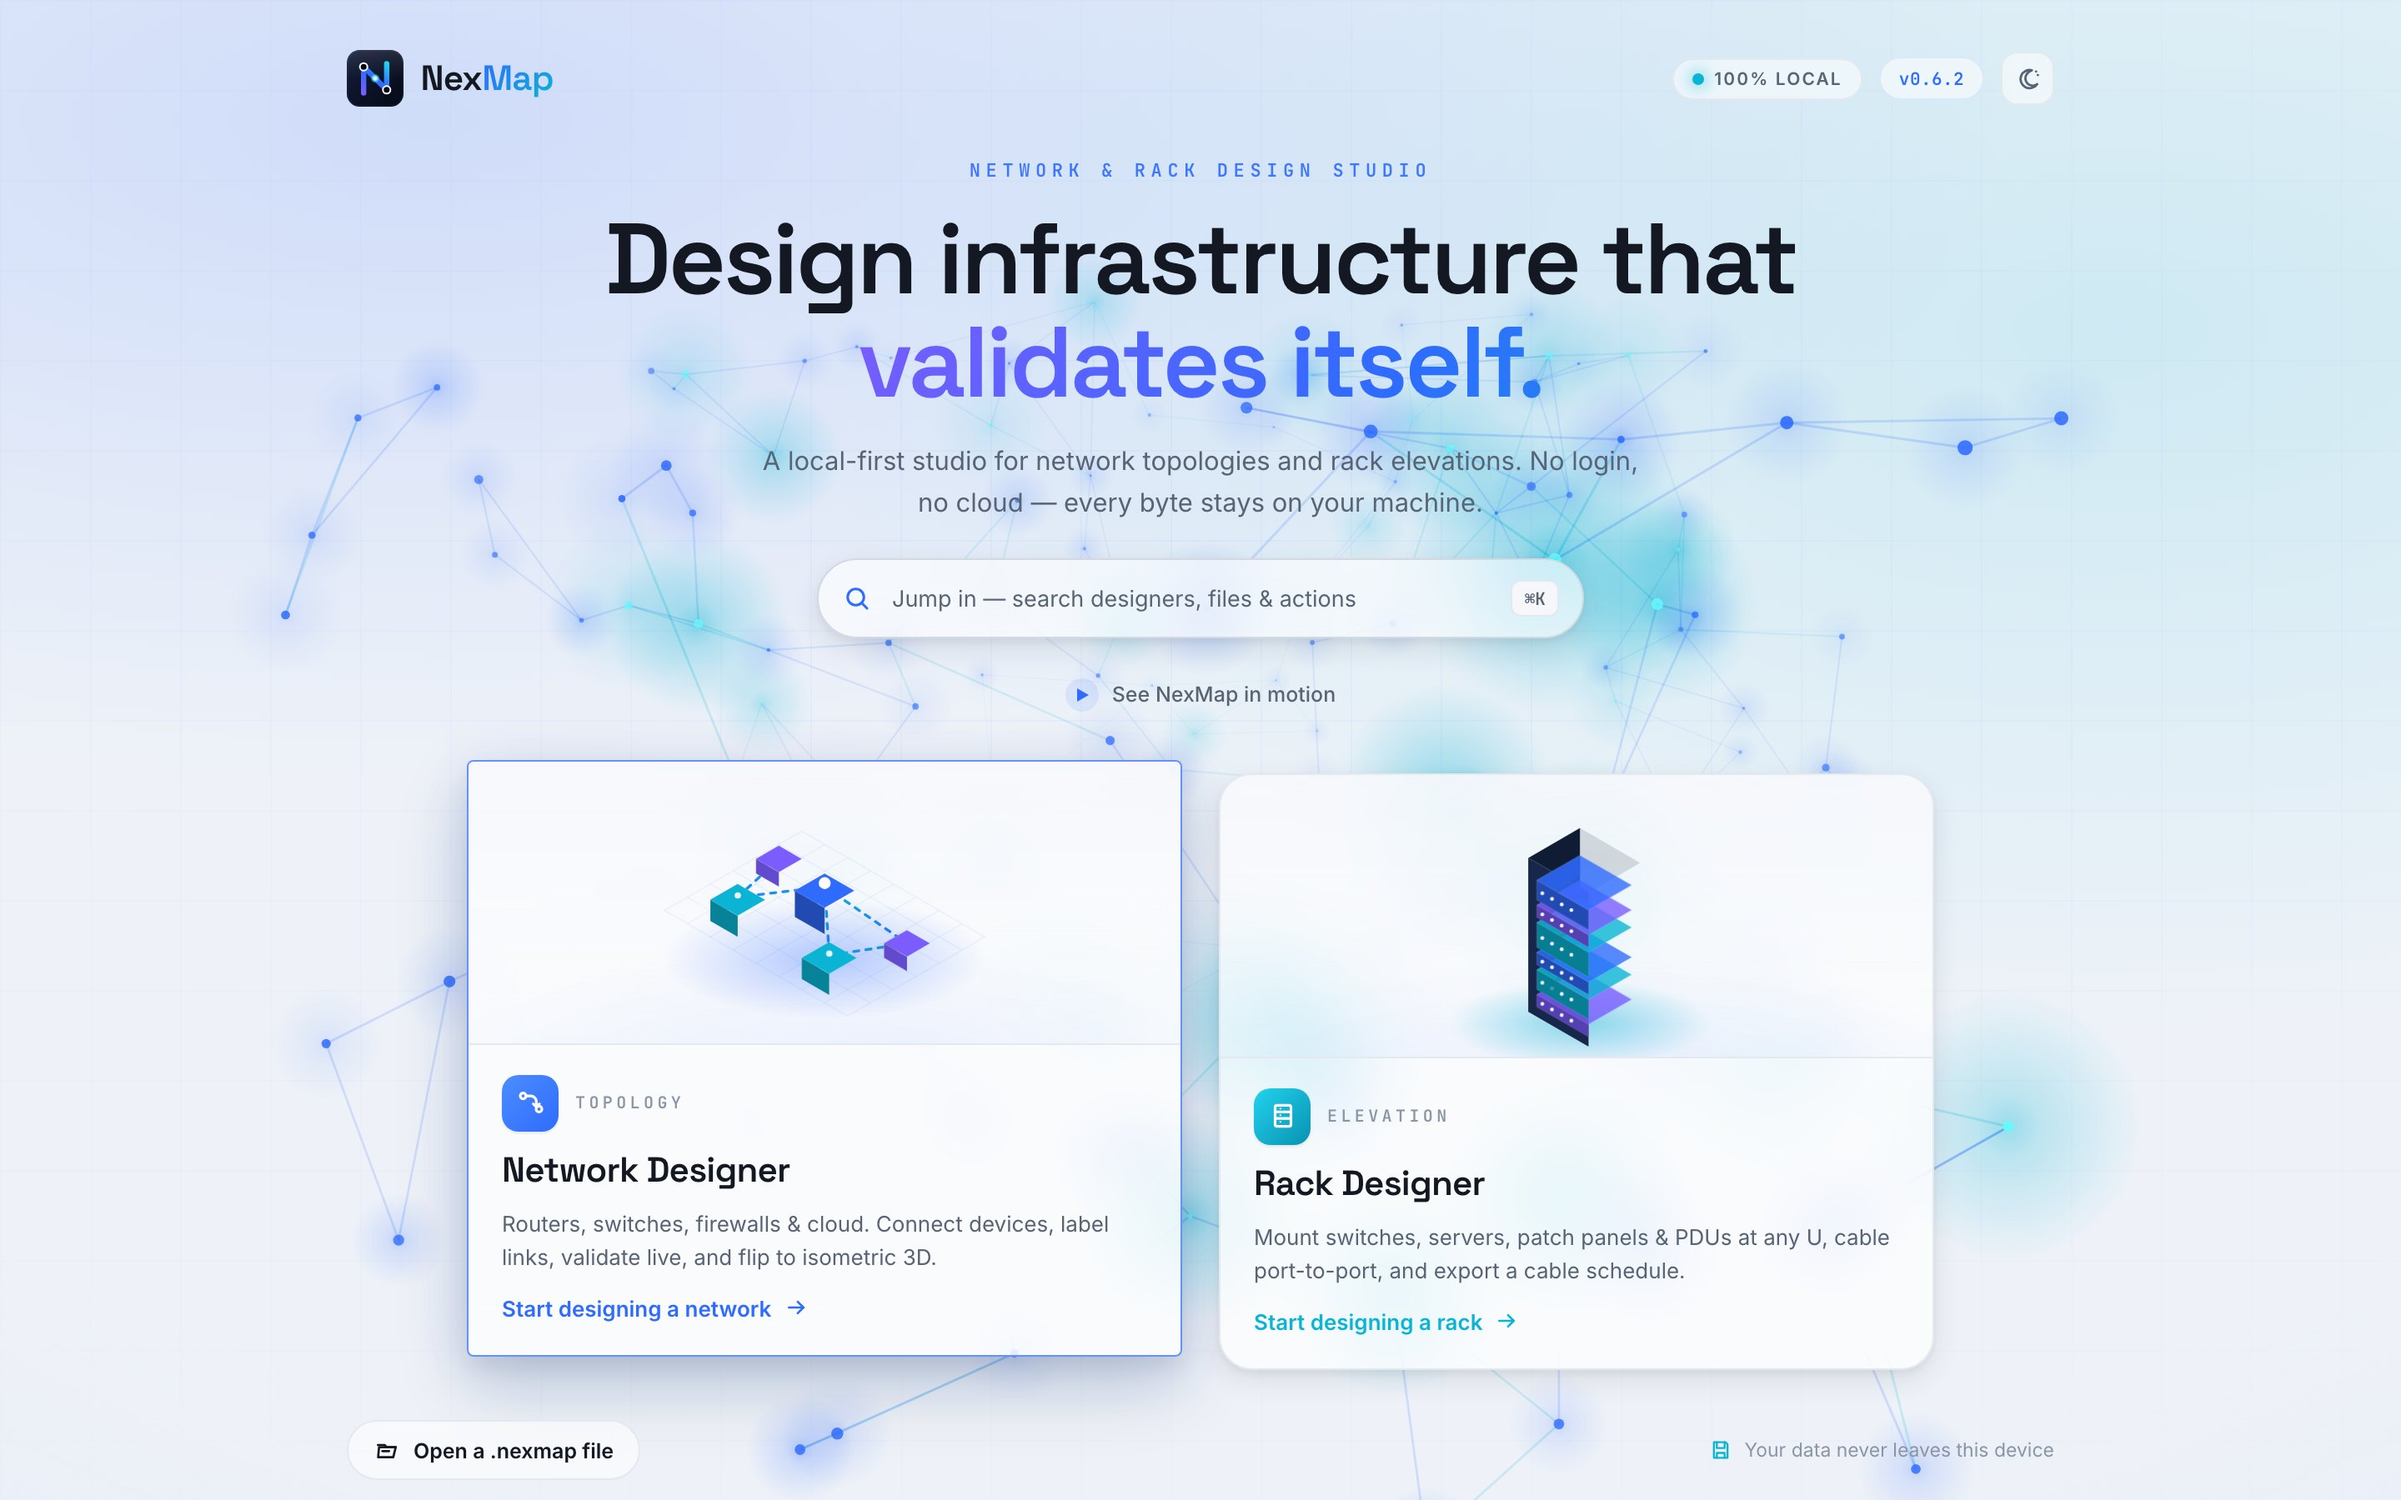
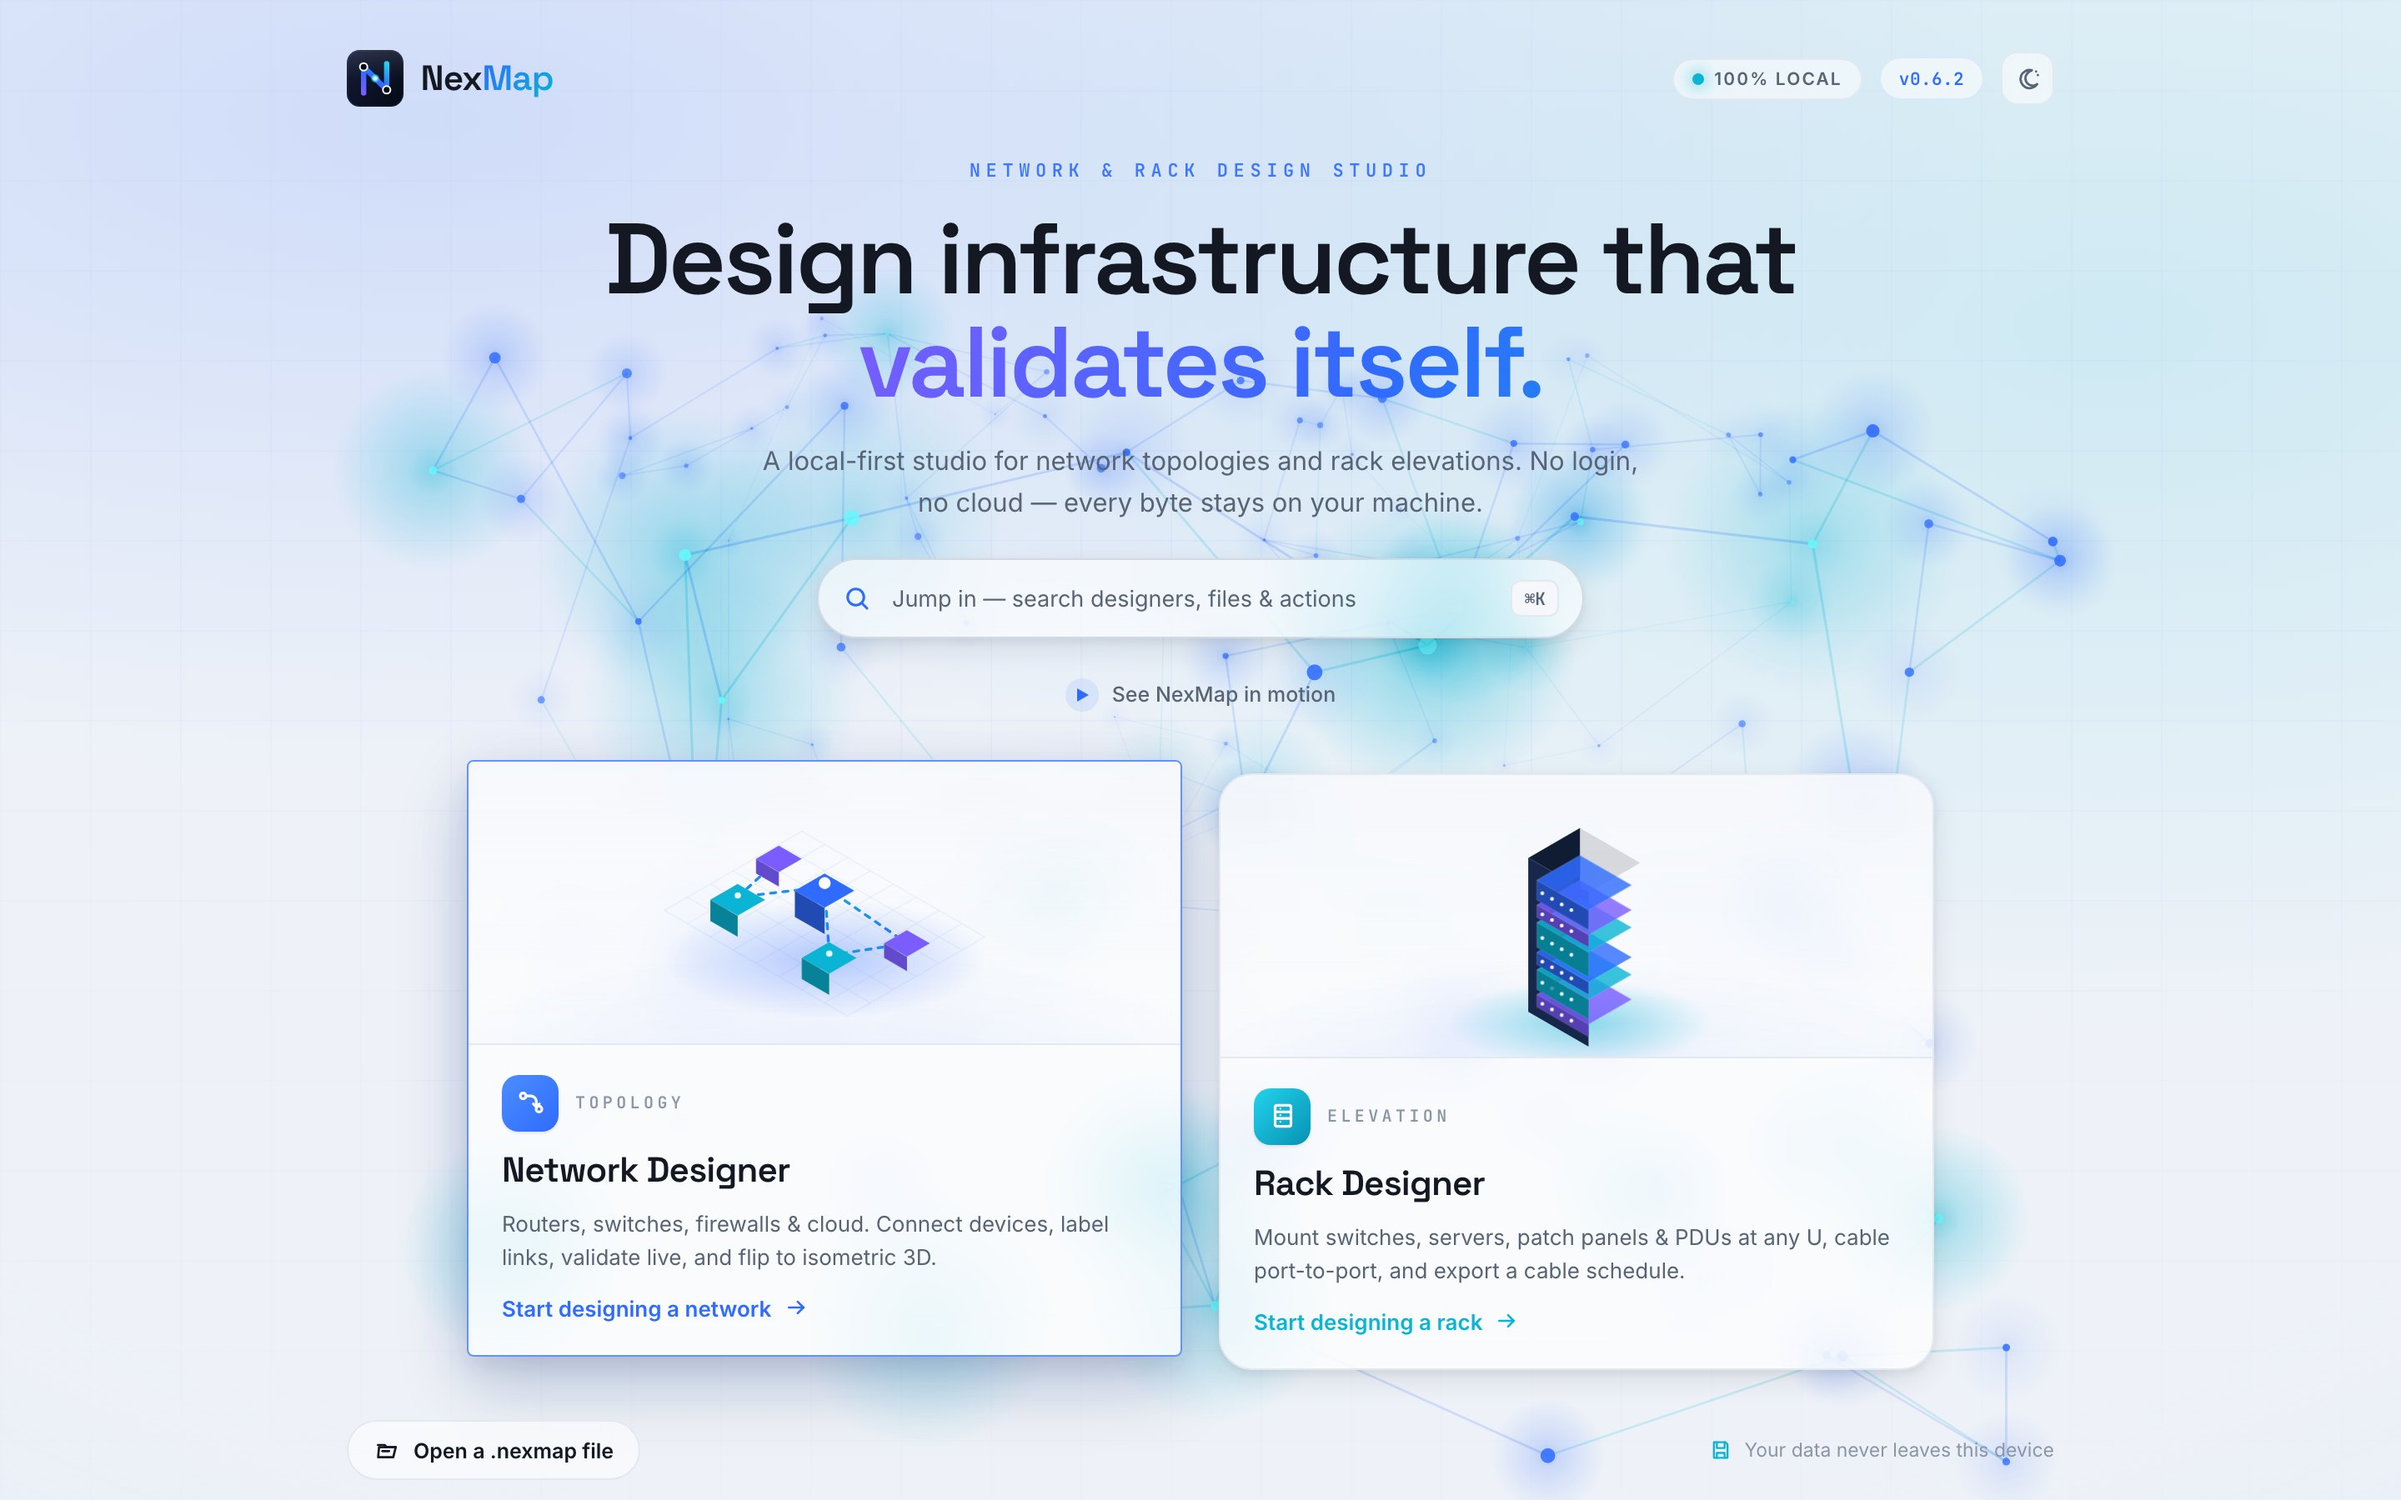
docs: README close-ups, light/dark hero, phone view in the FAQ
GitHub's narrow column shrank whole-window screenshots past reading, so the
README tour uses close-ups of the region that matters (generated by
docs:screenshots). The hero follows the reader's light or dark theme.

diff --git a/README.md b/README.md
@@ -29,7 +29,10 @@
 </p>
 
 <p align="center">
-  <img src="docs/assets/screens/network.jpg" alt="The NexMap Network Designer: a device library on the left, a branch-office network diagram in the middle, and the selected PC's details on the right" width="100%">
+  <picture>
+    <source media="(prefers-color-scheme: dark)" srcset="docs/assets/screens/network-dark.jpg">
+    <img src="docs/assets/screens/network.jpg" alt="The NexMap Network Designer: a device library on the left, a branch-office network diagram in the middle, and the selected PC's details on the right" width="100%">
+  </picture>
 </p>
 
 ## What is NexMap?
@@ -84,7 +87,7 @@ NexMap takes you straight to the field that needs fixing, explains what's
 wrong, and suggests the right value. Many problems can be fixed in one click.
 
 <p align="center">
-  <img src="docs/assets/screens/validation-fix.jpg" alt="A validation finding opened in the IP Plan: the gateway field is outlined in red with a note saying the address is outside the subnet and which addresses would work" width="90%">
+  <img src="docs/assets/screens/validation-fix-crop.jpg" alt="A validation finding opened in the IP Plan: the gateway field is outlined in red with a note saying the address is outside the subnet and which addresses would work" width="90%">
 </p>
 
 ### Stress-test it: what if something breaks?
@@ -94,7 +97,7 @@ instantly what loses its connection, and what keeps working through a
 backup path. Click it again to plug it back in.
 
 <p align="center">
-  <img src="docs/assets/screens/stress-test.jpg" alt="Stress-test mode: the core switch is failed and seven devices below it turn red, with a message saying seven devices are isolated" width="90%">
+  <img src="docs/assets/screens/stress-test-crop.jpg" alt="Stress-test mode: the core switch is failed and seven devices below it turn red, with a message saying seven devices are isolated" width="80%">
 </p>
 
 ### See it flat or in 3D
@@ -113,7 +116,7 @@ at any height, plug cables port to port, check that power and space add up,
 and export an installation packet for whoever does the work.
 
 <p align="center">
-  <img src="docs/assets/screens/rack.jpg" alt="The Rack Designer showing a 42U rack filled with switches, firewalls, servers, storage and UPS units drawn like the real hardware" width="90%">
+  <img src="docs/assets/screens/rack-crop.jpg" alt="A 42U rack in the Rack Designer filled with switches, firewalls, servers, storage and UPS units drawn like the real hardware, with its health score, space and power totals" width="70%">
 </p>
 
 ### Bring your data in, take results out

diff --git a/docs/guide/faq.md b/docs/guide/faq.md
@@ -48,7 +48,12 @@ download a fresh copy each time you save.
 <summary><b>Can I use it on a phone or tablet?</b></summary>
 
 Yes: pinch to zoom, drag with two fingers to move around, and tap to select.
-A bigger screen is more comfortable for large designs.
+On a phone the toolbar buttons move to their own row, and the canvas tools
+scroll sideways. A bigger screen is more comfortable for large designs.
+
+<p align="center">
+  <img src="../assets/screens/phone.jpg" alt="NexMap on a phone, showing a home Wi-Fi network with the toolbar on its own row" width="280">
+</p>
 </details>
 
 <details>
